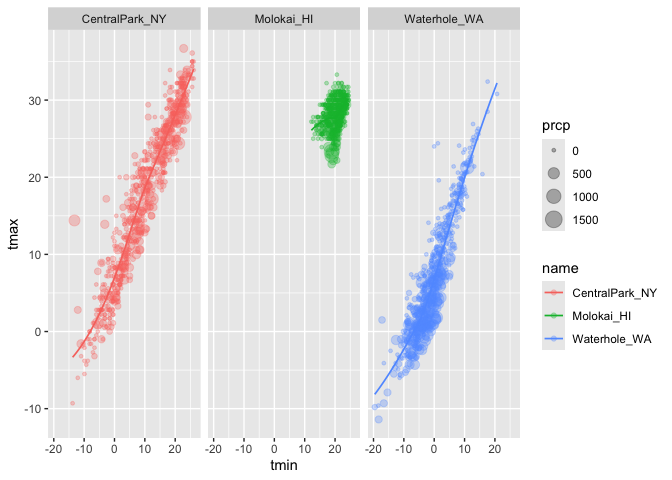
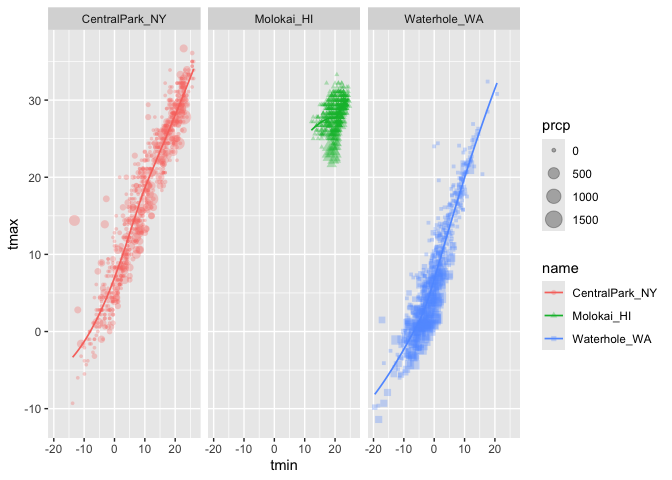
Small things

diff --git a/visualization.md b/visualization.md
@@ -90,3 +90,163 @@ weather_df |>
     ## (`geom_point()`).
 
 ![](visualization_files/figure-gfm/unnamed-chunk-6-1.png)<!-- -->
+
+Where you define aestherics can matter
+
+``` r
+weather_df |>
+  ggplot(aes(x = tmin, y = tmax)) +
+  geom_point(aes(color = name, size = prcp), alpha = 0.3) +
+  geom_smooth(se = FALSE, size = 0.6)
+```
+
+    ## Warning: Using `size` aesthetic for lines was deprecated in ggplot2 3.4.0.
+    ## ℹ Please use `linewidth` instead.
+    ## This warning is displayed once every 8 hours.
+    ## Call `lifecycle::last_lifecycle_warnings()` to see where this warning was
+    ## generated.
+
+    ## `geom_smooth()` using method = 'gam' and formula = 'y ~ s(x, bs = "cs")'
+
+    ## Warning: Removed 17 rows containing non-finite outside the scale range
+    ## (`stat_smooth()`).
+
+    ## Warning: Removed 19 rows containing missing values or values outside the scale range
+    ## (`geom_point()`).
+
+![](visualization_files/figure-gfm/unnamed-chunk-7-1.png)<!-- -->
+
+use faceting real quick
+
+``` r
+weather_df |>
+  ggplot(aes(x = tmin, y = tmax)) +
+  geom_point(aes(color = name), alpha = 0.3, size = 0.8) +
+  geom_smooth(se = FALSE, size = 0.6) +
+  facet_grid(. ~ name)
+```
+
+    ## `geom_smooth()` using method = 'loess' and formula = 'y ~ x'
+
+    ## Warning: Removed 17 rows containing non-finite outside the scale range
+    ## (`stat_smooth()`).
+
+    ## Warning: Removed 17 rows containing missing values or values outside the scale range
+    ## (`geom_point()`).
+
+![](visualization_files/figure-gfm/unnamed-chunk-8-1.png)<!-- -->
+
+``` r
+weather_df |>
+  ggplot(aes(x = tmin, y = tmax)) +
+  geom_point(aes(color = name), alpha = 0.3, size = 0.8) +
+  geom_smooth(se = FALSE, size = 0.6) +
+  facet_grid(name ~ .)
+```
+
+    ## `geom_smooth()` using method = 'loess' and formula = 'y ~ x'
+
+    ## Warning: Removed 17 rows containing non-finite outside the scale range
+    ## (`stat_smooth()`).
+    ## Removed 17 rows containing missing values or values outside the scale range
+    ## (`geom_point()`).
+
+![](visualization_files/figure-gfm/unnamed-chunk-8-2.png)<!-- -->
+
+Let’s make a somewhat more interesting scatterplot
+
+``` r
+weather_df |>
+  ggplot(aes(x = tmin, y = tmax, color = name, shape = name)) +
+  geom_point(aes(size = prcp), alpha = 0.3) +
+  geom_smooth(se = FALSE, size = 0.6) +
+  facet_grid(. ~ name)
+```
+
+    ## `geom_smooth()` using method = 'loess' and formula = 'y ~ x'
+
+    ## Warning: Removed 17 rows containing non-finite outside the scale range
+    ## (`stat_smooth()`).
+
+    ## Warning: Removed 19 rows containing missing values or values outside the scale range
+    ## (`geom_point()`).
+
+![](visualization_files/figure-gfm/unnamed-chunk-9-1.png)<!-- -->
+
+Learning Assessment: Write a code chain that starts with weather_df;
+focuses only on Central Park, converts temperatures to Fahrenheit, makes
+a scatterplot of min vs. max temperatures, and overlays a linear
+regression line (using options in geom_smooth())
+
+``` r
+weather_df |>
+  filter(name == "CentralPark_NY") |>
+  mutate(
+    tmax_fahr = tmax * (9/5) + 32,
+    tmin_fahr = tmin * (9/5) + 32
+  ) |>
+  ggplot(aes(x = tmin_fahr, y = tmax_fahr)) +
+    geom_point() +
+    geom_smooth(se = FALSE, method = "lm")
+```
+
+    ## `geom_smooth()` using formula = 'y ~ x'
+
+![](visualization_files/figure-gfm/unnamed-chunk-10-1.png)<!-- -->
+
+## Small things
+
+``` r
+weather_df |>
+  ggplot(aes(x = tmin, y = tmax, color = name, shape = name)) +
+  geom_point(alpha = 0.3) +
+  geom_smooth(se = FALSE)
+```
+
+    ## `geom_smooth()` using method = 'loess' and formula = 'y ~ x'
+
+    ## Warning: Removed 17 rows containing non-finite outside the scale range
+    ## (`stat_smooth()`).
+
+    ## Warning: Removed 17 rows containing missing values or values outside the scale range
+    ## (`geom_point()`).
+
+![](visualization_files/figure-gfm/unnamed-chunk-11-1.png)<!-- -->
+
+``` r
+weather_df |>
+  ggplot(aes(x = tmin, y = tmax, color = name, shape = name)) +
+  geom_smooth(se = FALSE) +
+  geom_point()
+```
+
+    ## `geom_smooth()` using method = 'loess' and formula = 'y ~ x'
+
+    ## Warning: Removed 17 rows containing non-finite outside the scale range
+    ## (`stat_smooth()`).
+    ## Removed 17 rows containing missing values or values outside the scale range
+    ## (`geom_point()`).
+
+![](visualization_files/figure-gfm/unnamed-chunk-11-2.png)<!-- -->
+
+``` r
+weather_df |>
+  ggplot(aes(x = tmin, y = tmax)) +
+  geom_hex()
+```
+
+    ## Warning: Removed 17 rows containing non-finite outside the scale range
+    ## (`stat_binhex()`).
+
+![](visualization_files/figure-gfm/unnamed-chunk-12-1.png)<!-- -->
+
+``` r
+weather_df |>
+  ggplot(aes(x = tmin, y = tmax)) +
+  geom_point(color = "purple")
+```
+
+    ## Warning: Removed 17 rows containing missing values or values outside the scale range
+    ## (`geom_point()`).
+
+![](visualization_files/figure-gfm/unnamed-chunk-13-1.png)<!-- -->
